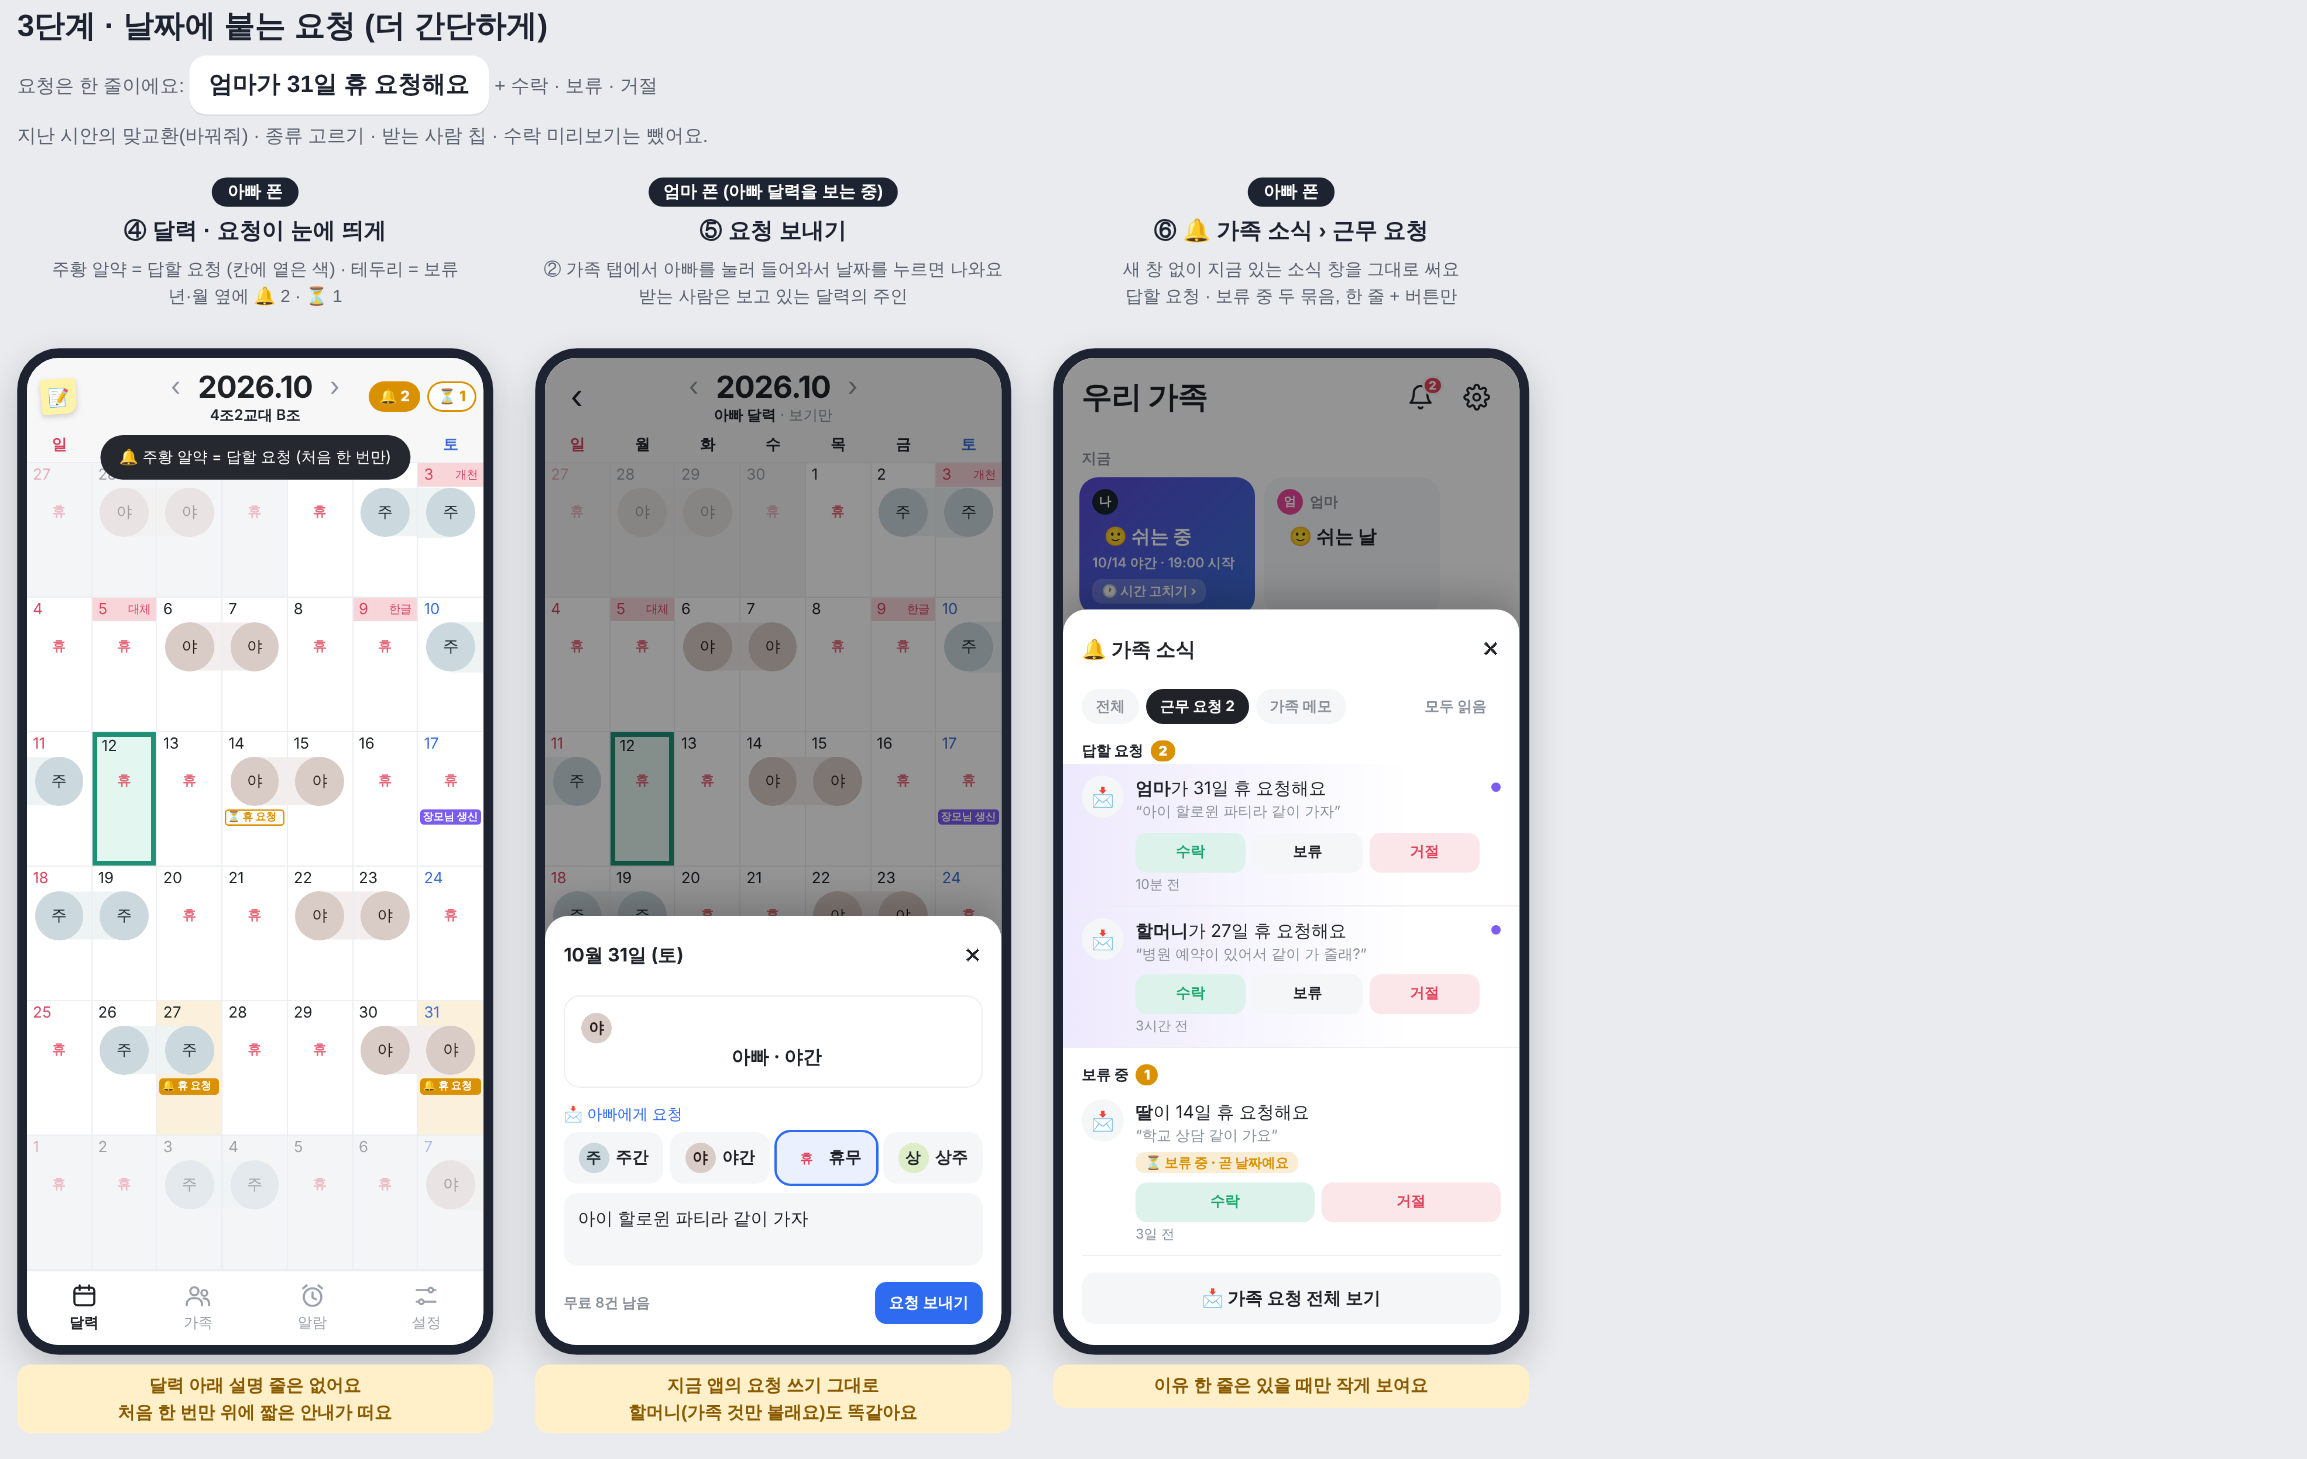
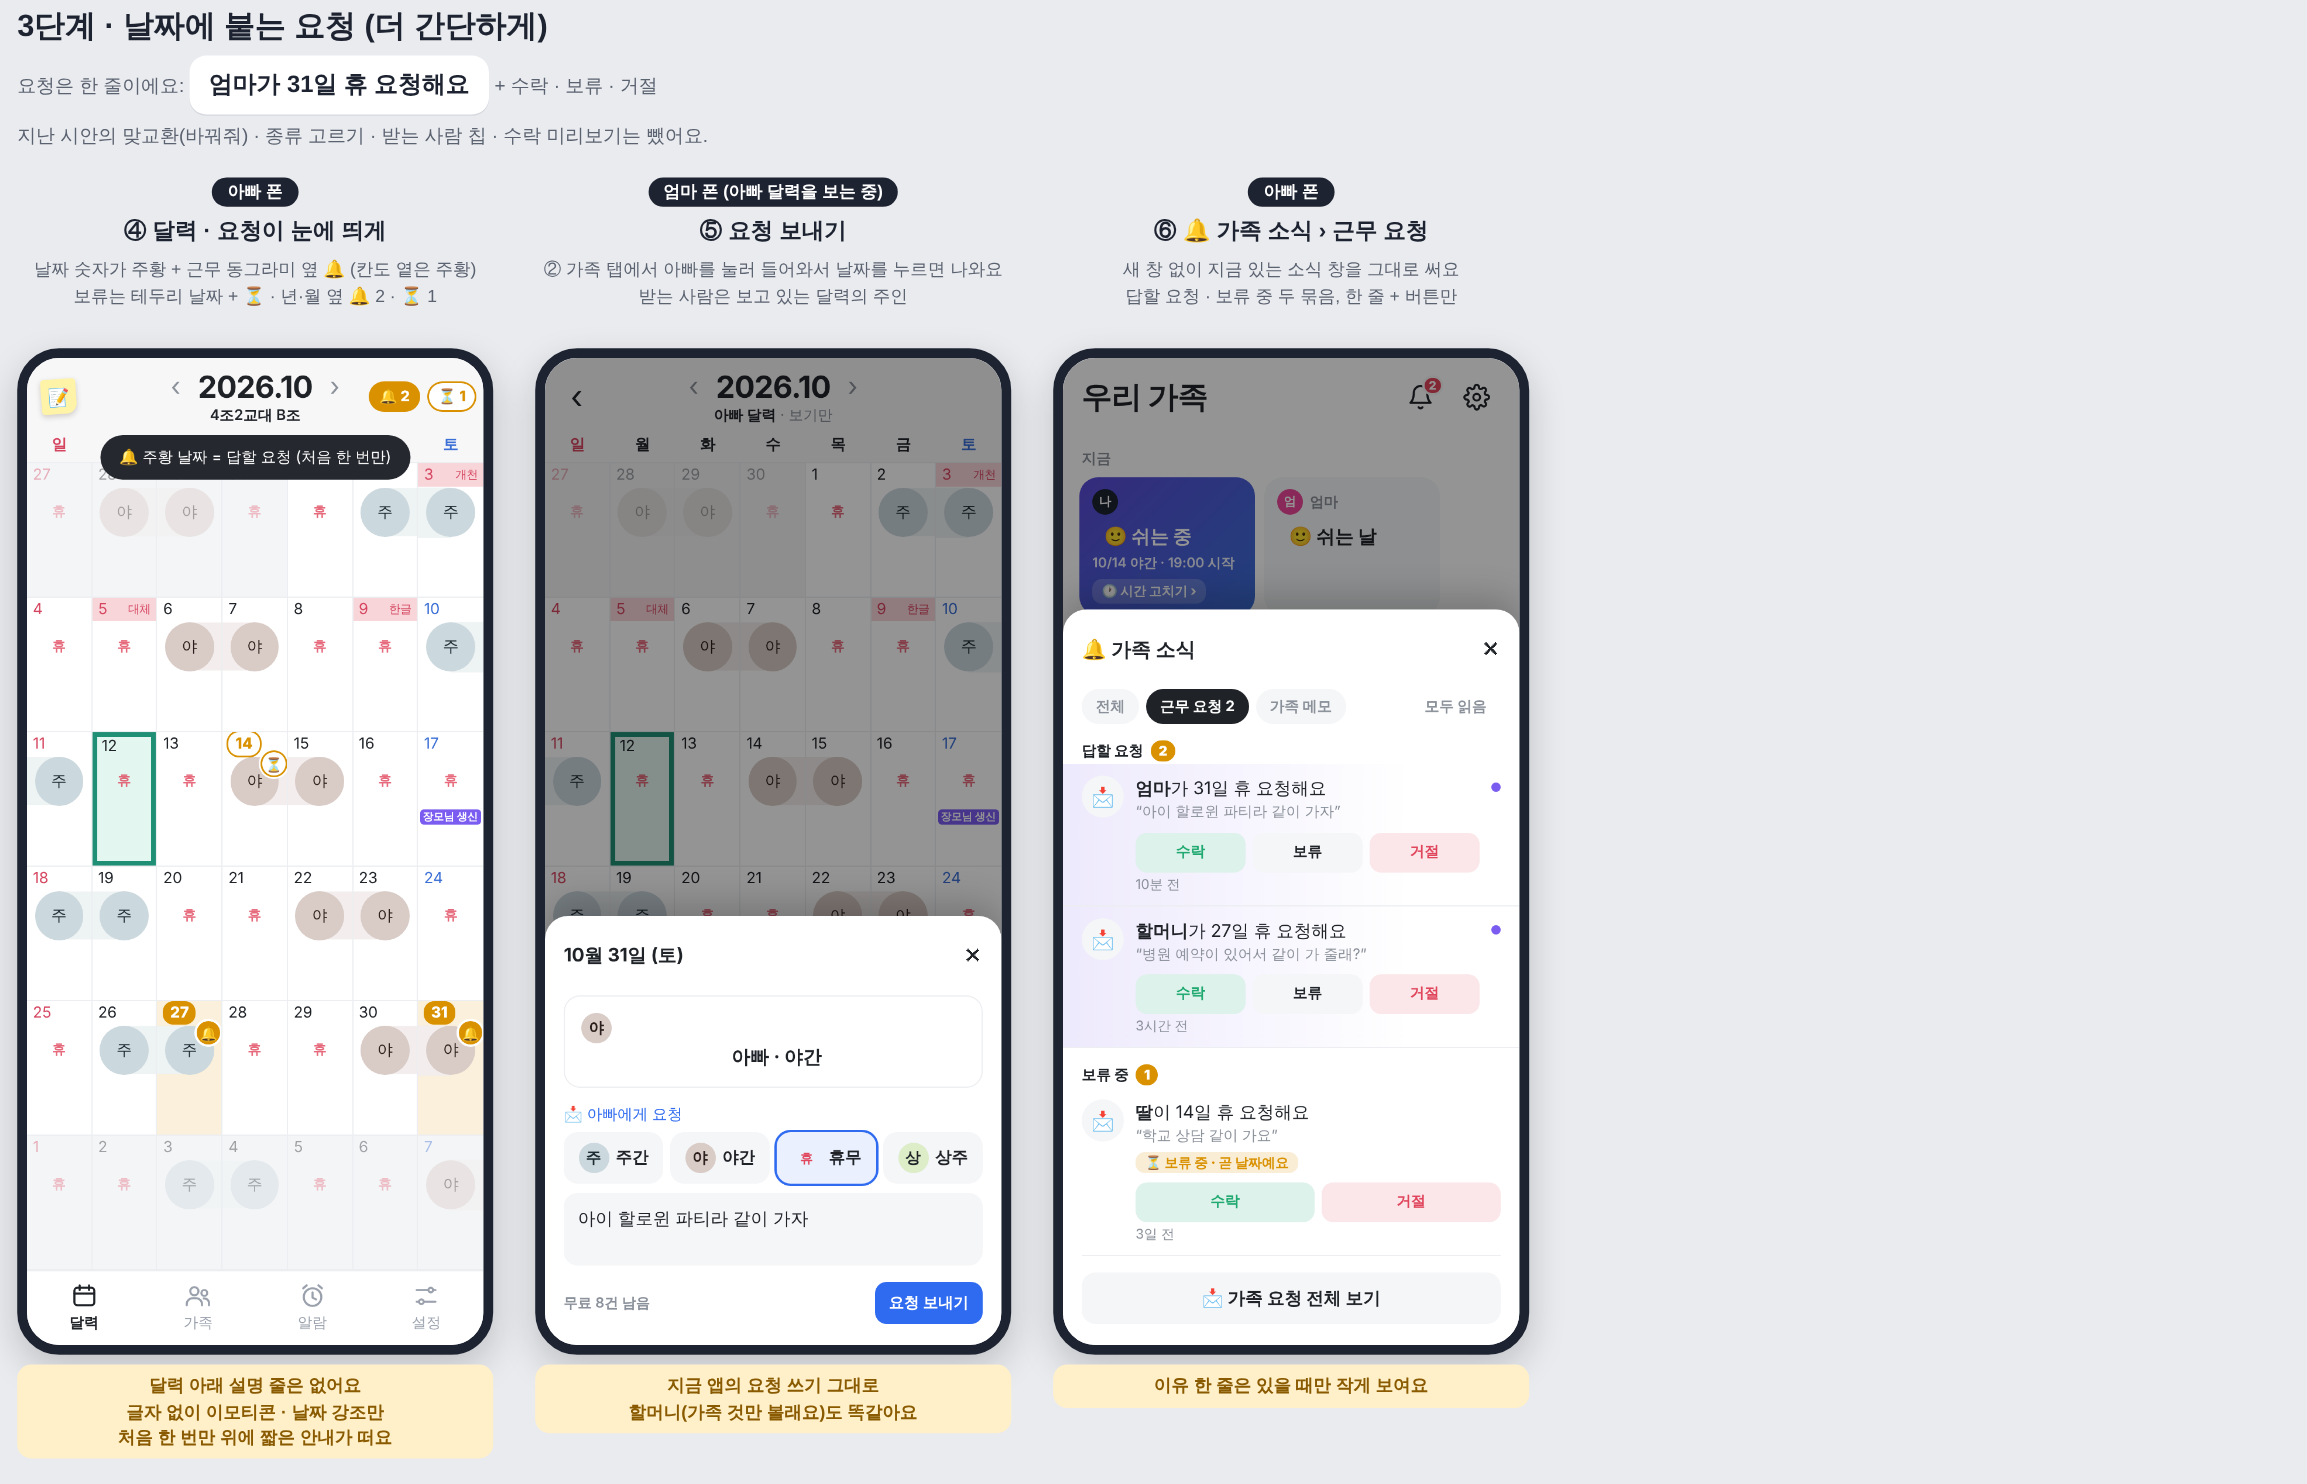
시안: 요청 표시를 글자 없이 날짜 강조 + 이모티콘으로
Claude-Session: https://claude.ai/code/session_01DP2NyZv5qNdwYSJLeYP8U7

diff --git a/design/ui-family-step23.html b/design/ui-family-step23.html
@@ -25,7 +25,7 @@ img{width:340px;border-radius:30px;border:7px solid #1d2330;box-shadow:0 10px 26
 <div id="r3"><div class="top"><h2>3단계 · 날짜에 붙는 요청 (더 간단하게)</h2>
 <p class="s">요청은 한 줄이에요: <span class="big">엄마가 31일 휴 요청해요</span> + 수락 · 보류 · 거절<br>지난 시안의 맞교환(바꿔줘) · 종류 고르기 · 받는 사람 칩 · 수락 미리보기는 뺐어요.</p></div>
 <div class="row">
- <div class="col"><span class="who">아빠 폰</span><div class="cap">④ 달력 · 요청이 눈에 띄게</div><div class="sub">주황 알약 = 답할 요청 (칸에 옅은 색) · 테두리 = 보류<br>년·월 옆에 🔔 2 · ⏳ 1</div><img src="family23/p4.png"><div class="fix">달력 아래 설명 줄은 없어요<br>처음 한 번만 위에 짧은 안내가 떠요</div></div>
+ <div class="col"><span class="who">아빠 폰</span><div class="cap">④ 달력 · 요청이 눈에 띄게</div><div class="sub">날짜 숫자가 주황 + 근무 동그라미 옆 🔔 (칸도 옅은 주황)<br>보류는 테두리 날짜 + ⏳ · 년·월 옆 🔔 2 · ⏳ 1</div><img src="family23/p4.png"><div class="fix">달력 아래 설명 줄은 없어요<br>글자 없이 이모티콘 · 날짜 강조만<br>처음 한 번만 위에 짧은 안내가 떠요</div></div>
  <div class="col"><span class="who">엄마 폰 (아빠 달력을 보는 중)</span><div class="cap">⑤ 요청 보내기</div><div class="sub">② 가족 탭에서 아빠를 눌러 들어와서 날짜를 누르면 나와요<br>받는 사람은 보고 있는 달력의 주인</div><img src="family23/p5.png"><div class="fix">지금 앱의 요청 쓰기 그대로<br>할머니(가족 것만 볼래요)도 똑같아요</div></div>
  <div class="col"><span class="who">아빠 폰</span><div class="cap">⑥ 🔔 가족 소식 › 근무 요청</div><div class="sub">새 창 없이 지금 있는 소식 창을 그대로 써요<br>답할 요청 · 보류 중 두 묶음, 한 줄 + 버튼만</div><img src="family23/p6.png"><div class="fix">이유 한 줄은 있을 때만 작게 보여요</div></div>
 </div></div>

diff --git a/docs/TODO.md b/docs/TODO.md
@@ -380,9 +380,9 @@
       · 읽음 표시, 응원 한 줄
       · 무료 횟수(처음 10건 · 광고 +10 · 구독 무제한)는 아래 "정한 것 — 무료 한도" 그대로
       · **묻히지 않게 하는 표시 (시안 ④)**
-          - ⚠ 달력의 빨간 점은 이미 "바뀐 날" 표시라 요청에는 안 씀. 칸 아래 알약(지금 요청 표시와 같은 자리)을 키움: **답할 요청 = 주황 알약 🔔 + 칸 바탕 옅은 주황 / 보류 = 테두리 알약 ⏳** (수락 · 거절 알약은 지금처럼 초록 · 빨강). 알약은 요청받은 사람 자기 달력에만 뜸
+          - ⚠ 달력의 빨간 점은 이미 "바뀐 날" 표시라 요청에는 안 씀. 칸에 글자(알약)는 안 넣고 **날짜를 강조 + 근무 동그라미 옆 이모티콘**: **답할 요청 = 날짜 숫자 주황 + 🔔 + 칸 바탕 옅은 주황 / 보류 = 테두리 날짜 + ⏳**. 요청받은 사람 자기 달력에만 뜸
           - 달력 오른쪽 위(년·월 옆) **🔔 2 · ⏳ 1** (답할 것 · 보류 개수만). 누르면 🔔 가족 소식 › 근무 요청. 요청이 없으면 아무것도 안 보임
-          - **달력 아래 설명 줄 없음** (v0.14.4에서 뺀 이유와 같음). 처음 한 번만 위에 짧은 안내 "🔔 주황 알약 = 답할 요청"
+          - **달력 아래 설명 줄 없음** (v0.14.4에서 뺀 이유와 같음). 처음 한 번만 위에 짧은 안내 "🔔 주황 날짜 = 답할 요청"
           - 보류가 있으면 앱을 열 때 위에 한 줄, 푸시는 하루 한 번만 다시. 끝난 요청은 알약이 사라져 조용하게
 - [ ] **4단계**: 구독 · 광고 보상 · 구글 로그인 연결(폰을 바꿔도 가족방 유지) · App Check (푸시는 3단계로 올림)
 - [ ] 나중에: 폰 없는 자녀 대리 달력(한 사람이 달력 여러 개 올리기), 상대 근무 기준 알람
